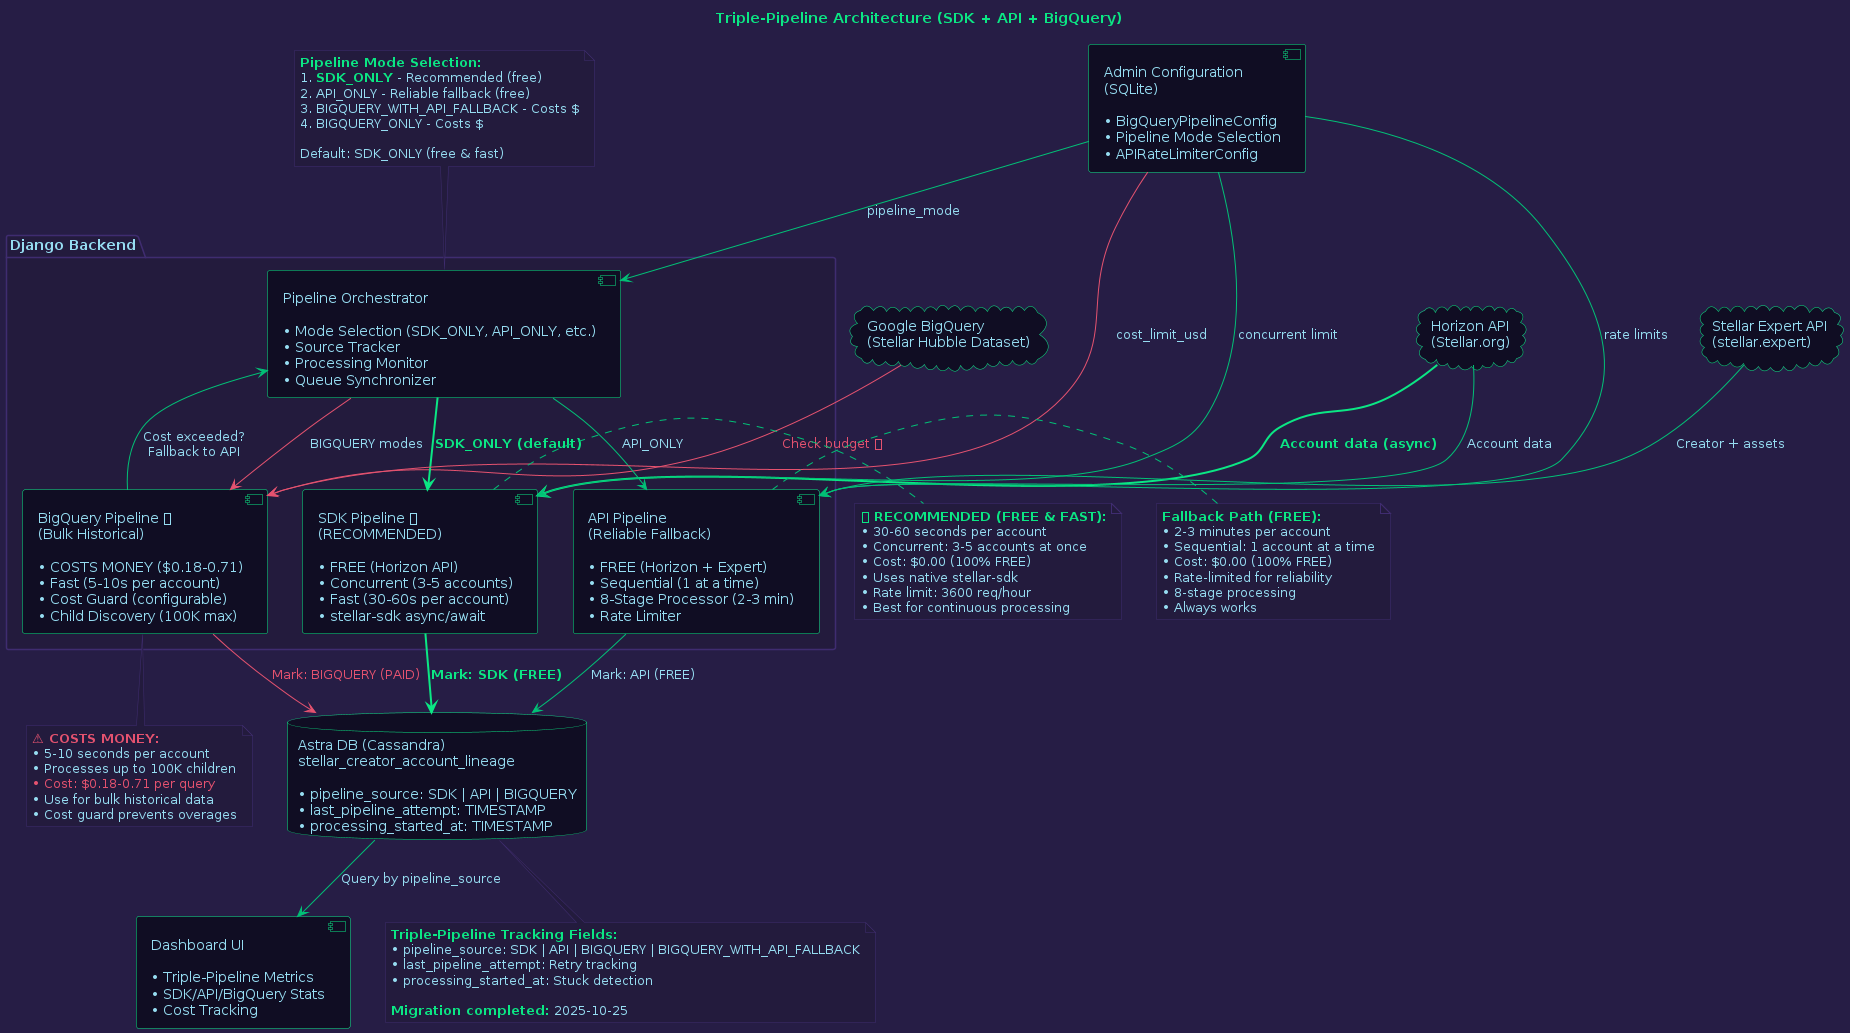
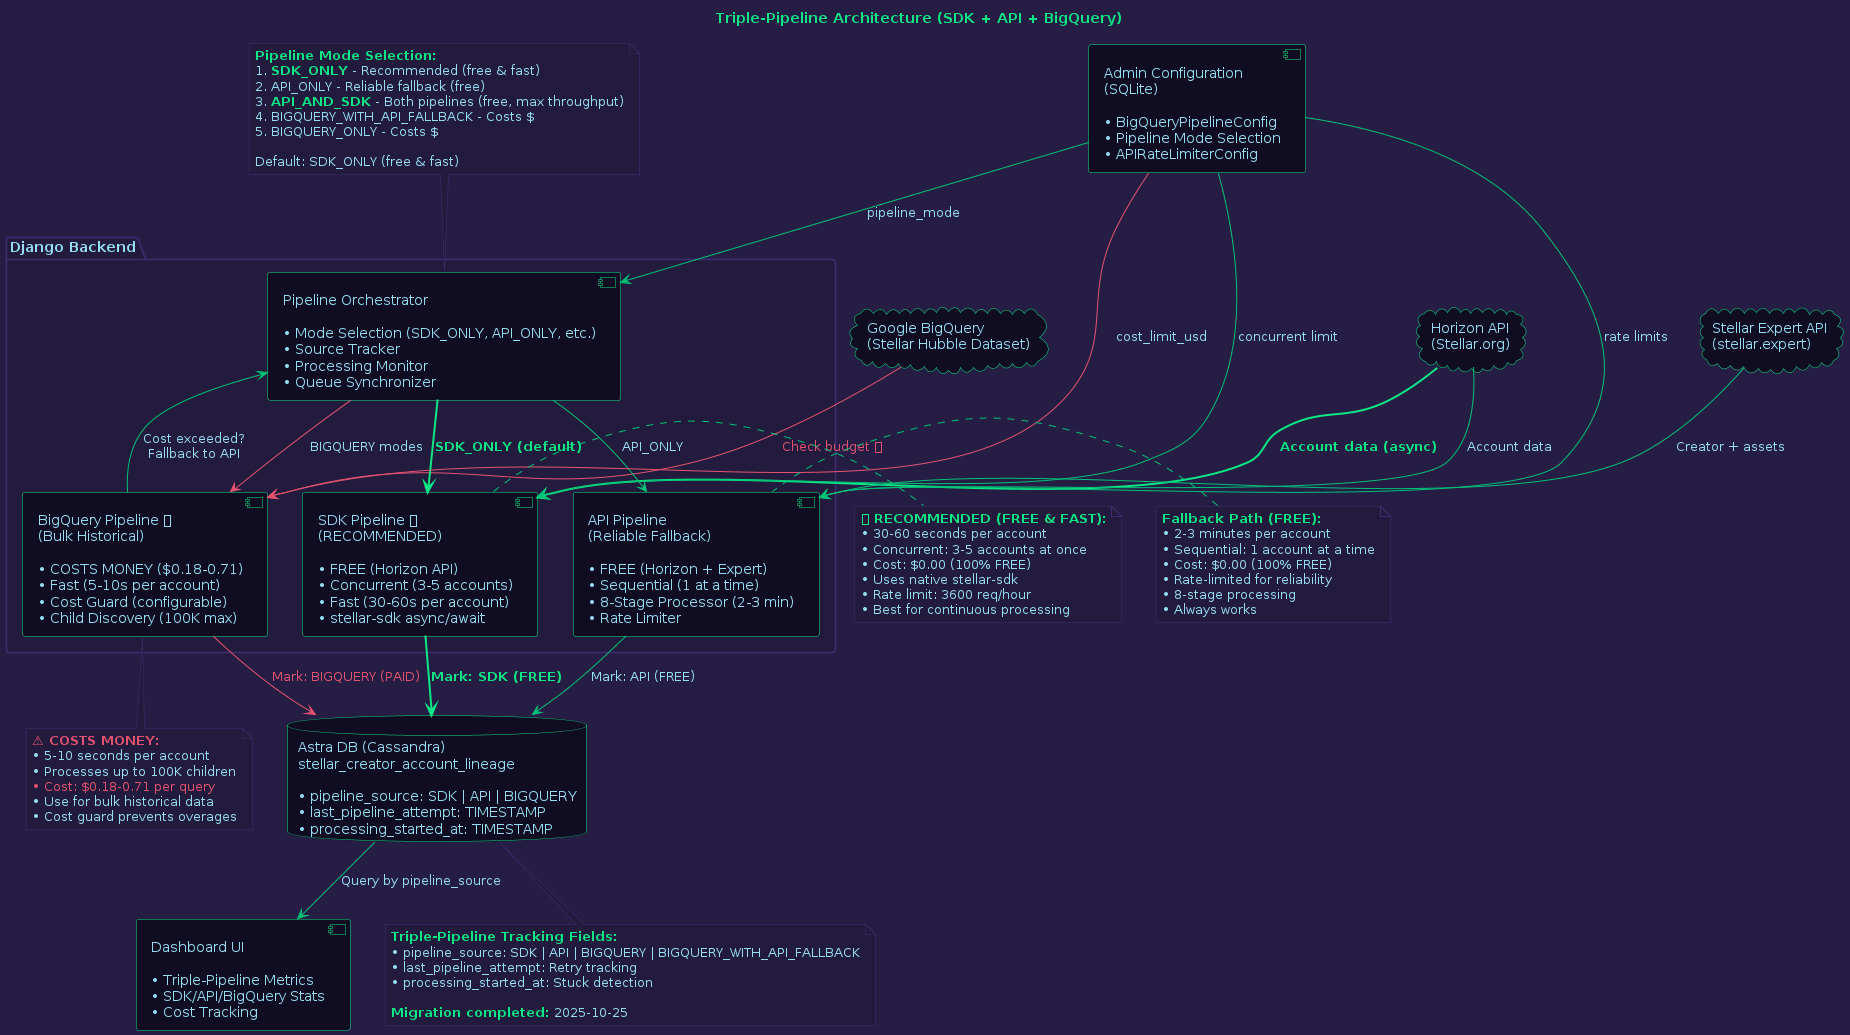
Update documentation and diagrams to reflect new pipeline configurations
Updates README.md, TECHNICAL_ARCHITECTURE.md, USER_GUIDE.md, and PlantUML diagrams to document new pipeline modes and configuration options.

Replit-Commit-Author: Agent
Replit-Commit-Session-Id: 258f3a4a-f0e9-4ec9-a96a-db60ead814ab
Replit-Commit-Checkpoint-Type: intermediate_checkpoint
Replit-Commit-Screenshot-Url: https://storage.googleapis.com/screenshot-production-us-central1/ed66492b-107f-4361-8675-2b6bea535f9a/258f3a4a-f0e9-4ec9-a96a-db60ead814ab/VjAHo2h

diff --git a/USER_GUIDE.md b/USER_GUIDE.md
@@ -872,8 +872,9 @@ Each account shows:
 ### Pipeline Modes
 1. **SDK_ONLY** - Use only SDK Pipeline (free, concurrent) - RECOMMENDED ⭐
 2. **API_ONLY** - Use only API Pipeline (free, sequential)
-3. **BIGQUERY_WITH_API_FALLBACK** - Use BigQuery first, fallback to API (costs money)
-4. **BIGQUERY_ONLY** - Only use BigQuery (may fail if limits exceeded, costs money)
+3. **API_AND_SDK** - Run BOTH pipelines simultaneously (free, maximum throughput) 🆓🆓
+4. **BIGQUERY_WITH_API_FALLBACK** - Use BigQuery first, fallback to API (costs money)
+5. **BIGQUERY_ONLY** - Only use BigQuery (may fail if limits exceeded, costs money)
 
 ### HVA Ranking System
 - **Event-based tracking** - Only records meaningful changes
@@ -903,7 +904,7 @@ The Django admin portal provides advanced configuration for triple-pipeline sett
 ![BigQuery Configuration Panel](docs/screenshots/admin-bigquery-config.png)
 
 **Configuration Options:**
-- **Pipeline Mode** - SDK_ONLY (recommended), API_ONLY, BIGQUERY_WITH_API_FALLBACK, or BIGQUERY_ONLY
+- **Pipeline Mode** - SDK_ONLY (recommended), API_ONLY, API_AND_SDK (dual pipeline), BIGQUERY_WITH_API_FALLBACK, or BIGQUERY_ONLY
 - **Cost Limit** ($0.18-0.71 per query) - Control BigQuery spending
 - **Size Limit** (145 GB) - Limit data scanned per query
 - **Age Limits** - Restrict queries by account age

diff --git a/TECHNICAL_ARCHITECTURE.md b/TECHNICAL_ARCHITECTURE.md
@@ -163,6 +163,12 @@ python manage.py bigquery_pipeline --limit 100
 - Run SDK Pipeline continuously for best free performance
 - Use API Pipeline as fallback if needed
 
+**For Maximum Throughput (FREE):**
+- Set pipeline mode to `API_AND_SDK` in admin panel
+- Run BOTH SDK and API pipelines simultaneously
+- Best for high-volume processing with redundancy
+- 100% free - no BigQuery costs
+
 **For Bulk Historical Data (COSTS MONEY):**
 - Set pipeline mode to `BIGQUERY_WITH_API_FALLBACK`
 - Run BigQuery Pipeline on-demand for bulk processing

diff --git a/README.md b/README.md
@@ -147,7 +147,7 @@ cursor.execute('''CREATE TABLE IF NOT EXISTS apiApp_bigquerypipelineconfig (
     bigquery_enabled BOOLEAN DEFAULT 1,
     cost_limit_usd REAL DEFAULT 0.71,
     size_limit_mb REAL DEFAULT 148900.0,
-    pipeline_mode VARCHAR(50) DEFAULT \"BIGQUERY_WITH_API_FALLBACK\",
+    pipeline_mode VARCHAR(50) DEFAULT \"SDK_ONLY\",
     instant_query_max_age_days INTEGER DEFAULT 365,
     api_fallback_enabled BOOLEAN DEFAULT 1,
     horizon_max_operations INTEGER DEFAULT 200,
